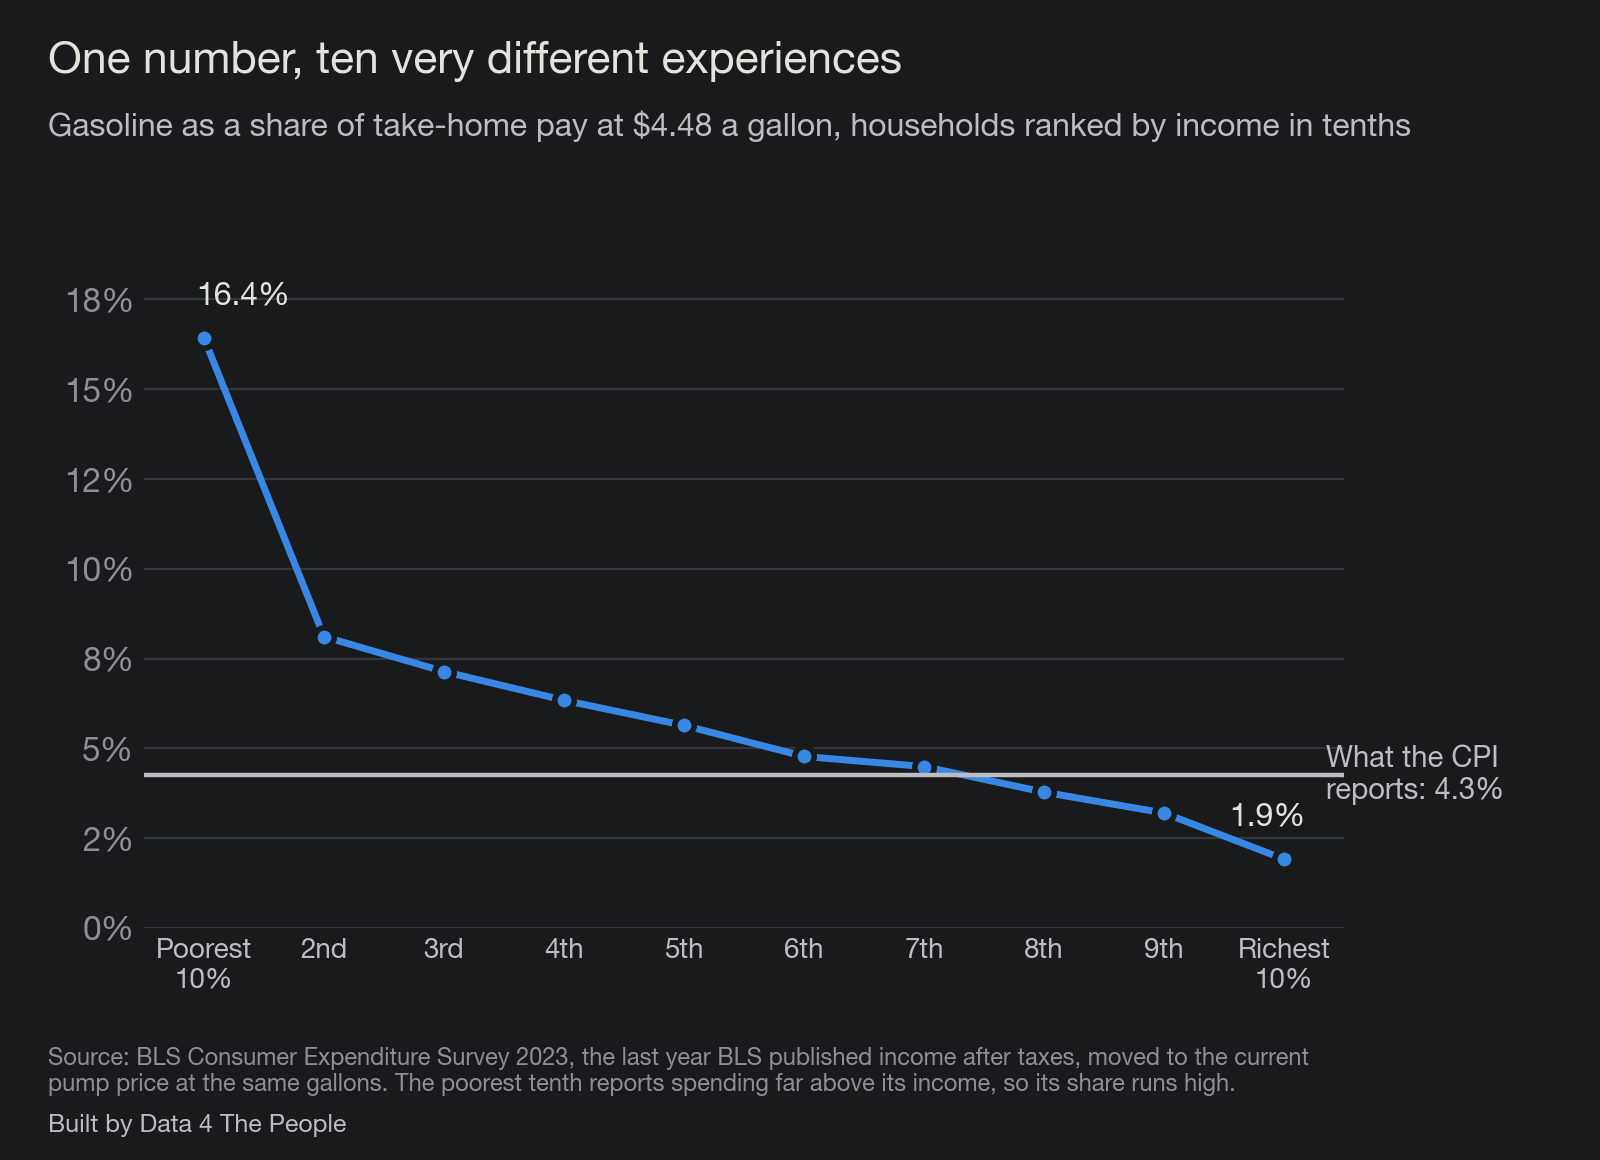
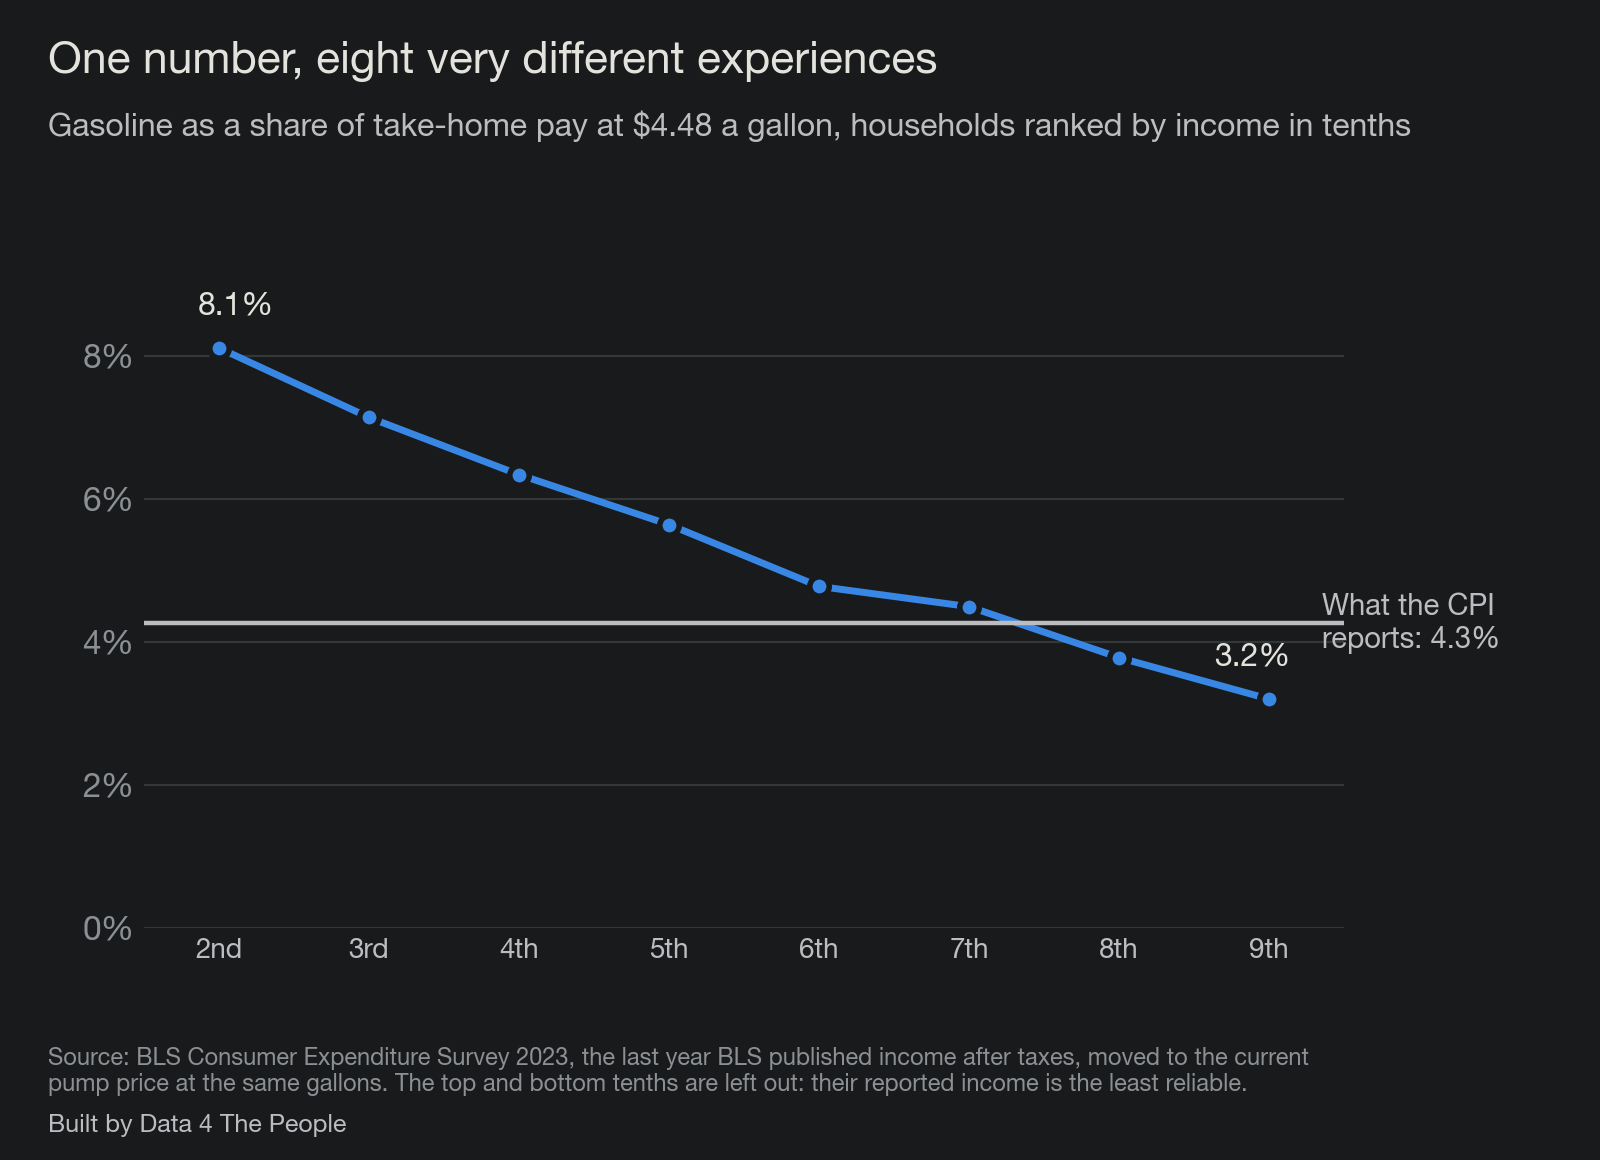
gasoline-share-of-income: trim distribution chart to the middle eight tenths

diff --git a/src/charts.py b/src/charts.py
@@ -229,28 +229,28 @@ def chart_distribution(m):
     d = cex.read('cu-income-deciles-before-taxes', 2023)
     price23 = sum(p for dt, p in model.GAS if dt.startswith('2023')) / len([1 for dt, p in model.GAS if dt.startswith('2023')])
     k = m['price'] / price23
-    names = [n for n in d if n != 'All consumer units']
-    assert len(names) == 10, names
+    names = [n for n in d if n != 'All consumer units'][1:-1]   # drop the top and bottom tenths
+    assert len(names) == 8, names
     shares = [100 * d[n]['gas'] / d[n]['income_after'] * k for n in names]
     cpi = cpi_weight(m)
     f, ax = fig(5.8)
-    xs = list(range(1, 11))
+    xs = list(range(2, 10))
     ax.plot(xs, shares, color=S[0], lw=2.5, marker='o', ms=7, mfc=S[0], mec=BG, mew=2)
     ax.axhline(cpi, color=REF, lw=1.6)
-    ax.text(10.35, cpi, f'What the CPI\nreports: {cpi:.1f}%', color=INK2, fontsize=10.5, va='center', linespacing=1.2)
-    for i, dx in ((0, 14), (9, -6)):
+    ax.text(9.35, cpi, f'What the CPI\nreports: {cpi:.1f}%', color=INK2, fontsize=10.5, va='center', linespacing=1.2)
+    for i, dx in ((0, 6), (7, -6)):
         ax.annotate(f'{shares[i]:.1f}%', (xs[i], shares[i]), xytext=(dx, 12), textcoords='offset points',
                     ha='center', color=INK, fontsize=11.5, fontweight='bold')
-    ax.set_xlim(0.5, 10.5); ax.set_ylim(0, max(shares) * 1.18)
-    ax.set_xticks(xs, ['Poorest\n10%', '2nd', '3rd', '4th', '5th', '6th', '7th', '8th', '9th', 'Richest\n10%'])
+    ax.set_xlim(1.5, 9.5); ax.set_ylim(0, max(shares) * 1.2)
+    ax.set_xticks(xs, ['2nd', '3rd', '4th', '5th', '6th', '7th', '8th', '9th'])
     ax.tick_params(axis='x', labelcolor=INK2, labelsize=10)
     ax.yaxis.set_major_formatter(lambda x, _: f'{x:.0f}%')
     ax.grid(axis='y', color=GRID, lw=0.8); ax.set_axisbelow(True)
     f.subplots_adjust(left=0.09, right=0.84, top=0.8, bottom=0.2)
-    title(f, 'One number, ten very different experiences',
+    title(f, 'One number, eight very different experiences',
           f'Gasoline as a share of take-home pay at \\${m["price"]:.2f} a gallon, households ranked by income in tenths')
     foot(f, 'Source: BLS Consumer Expenditure Survey 2023, the last year BLS published income after taxes, moved to the current\n'
-            'pump price at the same gallons. The poorest tenth reports spending far above its income, so its share runs high.')
+            'pump price at the same gallons. The top and bottom tenths are left out: their reported income is the least reliable.')
     f.savefig(OUT / '06-distribution.png', facecolor=BG); plt.close(f)
 
 

diff --git a/posts/gasoline-share-of-income/POST.md b/posts/gasoline-share-of-income/POST.md
@@ -59,10 +59,10 @@ A lot has changed since then regarding technology. For example, the tool I have 
 
 That distribution already exists in the data. Here is what one month of gasoline looks like when you stop averaging it into a single household.
 
-![Gasoline as a share of take-home pay across ten income groups, against the CPI's 4.3%](images/02-distribution.png)
-*The poorest tenth reports spending well above its income, which is a known limit of the survey, so read that point as a direction and not a precise level.*
+![Gasoline as a share of take-home pay across eight income groups, against the CPI's 4.3%](images/02-distribution.png)
+*The top and bottom tenths are left out. Their reported income is the least reliable part of the survey, and the pattern is clear without them.*
 
-The CPI reports 4.3%. The poorest tenth of households is at 16.4% and the richest tenth is at 1.9%. One number is standing in for all of that.
+The CPI reports 4.3%. Working up the income ladder, the share runs from 8.1% to 3.2%, crossing the CPI's number somewhere between the seventh and eighth tenths. One number is standing in for all of that.
 
 ## Why we need to fix this: a case study using gasoline prices
 
